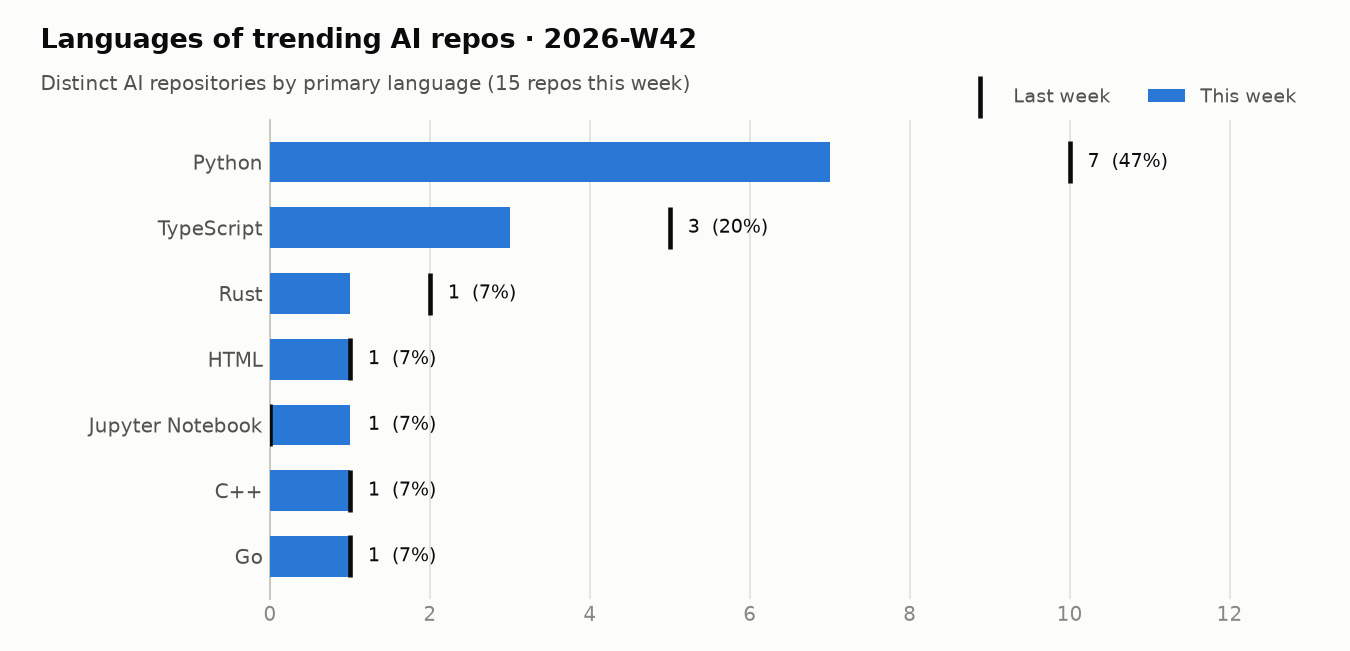
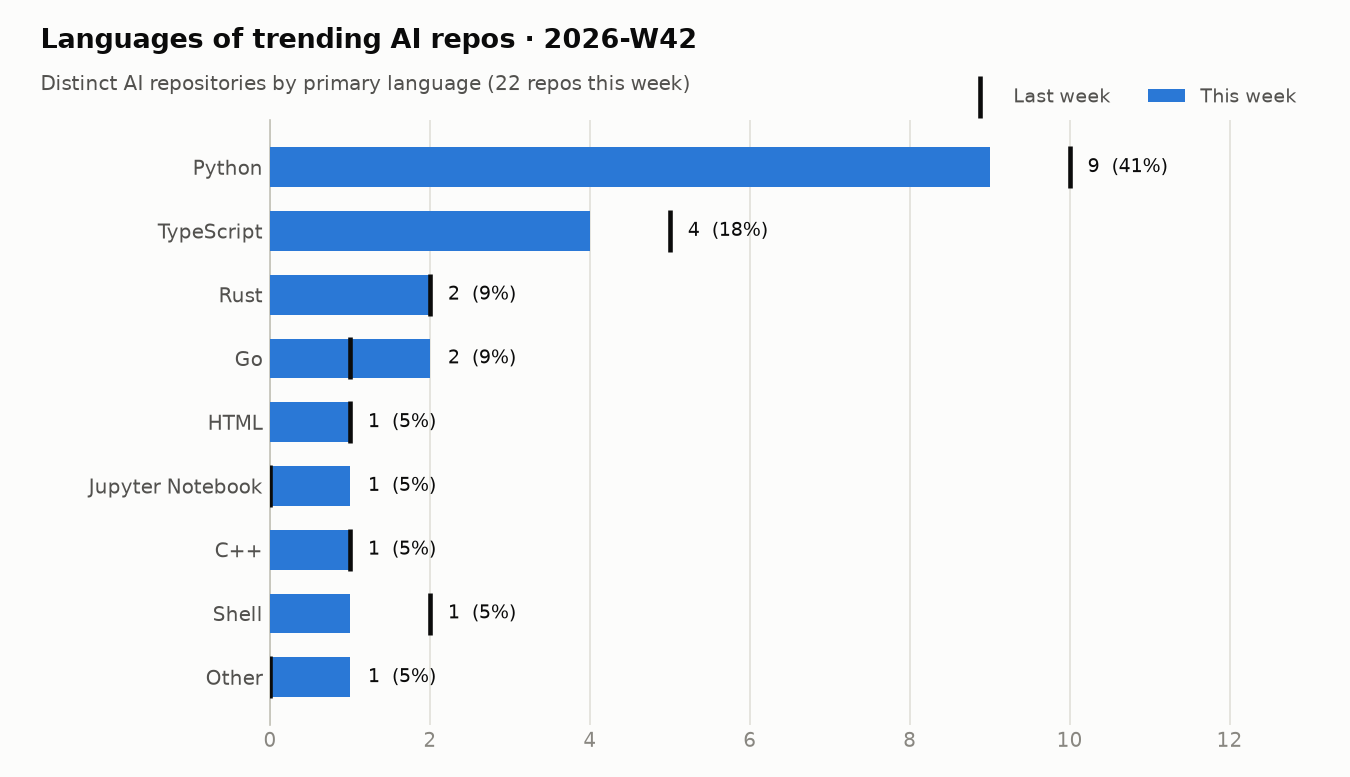
trending: snapshot 2026-10-16

diff --git a/README.md b/README.md
@@ -7,28 +7,33 @@ Every morning a GitHub Actions workflow reads the GitHub trending page, looks up
 ## Live view
 
 <!-- TRACKER_START -->
-### 🔥 AI repos trending today · 2026-10-15
+### 🔥 AI repos trending today · 2026-10-16
 
-7 of 12 trending repositories are AI-related.
+11 of 13 trending repositories are AI-related.
 
 | # | Repo | Language | ⭐ today | ⭐ total | Topics |
 |--:|---|---|--:|--:|---|
-| 1 | [morluto/rea](https://github.com/morluto/rea)<br><sub>Star morluto / rea Reverse engineer anything with agents, from app behavior down to native…</sub> | TypeScript | 41,034 | 251,853 | `agent-skills` `ai-agents` `binary-analysis` `claude-code` |
-| 2 | [debpalash/VoiceStudio](https://github.com/debpalash/VoiceStudio)<br><sub>Star debpalash / VoiceStudio VoiceStudio is the open-source, fully-local ElevenLabs altern…</sub> | Python | 3,538 | 67,236 | `ai` `audiobook` `cuda` `dubbing` |
-| 3 | [mksglu/context-mode](https://github.com/mksglu/context-mode)<br><sub>Sponsor Star mksglu / context-mode Context window optimization for AI coding agents. Sandb…</sub> | TypeScript | 947 | 29,380 | `antigravity` `claude` `claude-code` `claude-code-hooks` |
-| 5 | [K-Dense-AI/scientific-agent-skills](https://github.com/K-Dense-AI/scientific-agent-skills)<br><sub>Star K-Dense-AI / scientific-agent-skills Turn any AI agent into an AI Scientist. The #1 A…</sub> | Python | 163 | 49,676 | `agent-skills` `ai-scientist` `bioinformatics` `chemoinformatics` |
-| 6 | [HKUDS/CLI-Anything](https://github.com/HKUDS/CLI-Anything)<br><sub>Star HKUDS / CLI-Anything "CLI-Anything: Making ALL Software Agent-Native" -- CLI-Hub: htt…</sub> | Python | 103 | 52,755 | – |
-| 7 | [ifixai-ai/iFixAi](https://github.com/ifixai-ai/iFixAi)<br><sub>Star ifixai-ai / iFixAi Independent Auditing of AI Agents. Run by human or the agent itsel…</sub> | Python | 2,109 | 27,864 | `agent-evaluation` `ai` `ai-alignment` `ai-evaluation` |
-| 8 | [vxcontrol/pentagi](https://github.com/vxcontrol/pentagi)<br><sub>Star vxcontrol / pentagi Fully autonomous AI Agents system capable of performing complex p…</sub> | Go | 1,025 | 29,961 | `ai-agents` `ai-security-tool` `anthropic` `autonomous-agents` |
+| 1 | [morluto/rea](https://github.com/morluto/rea)<br><sub>Star morluto / rea Reverse engineer anything with agents, from app behavior down to native…</sub> | TypeScript | 32,314 | 277,586 | `agent-skills` `ai-agents` `binary-analysis` `claude-code` |
+| 2 | [anthropics/claude-plugins-official](https://github.com/anthropics/claude-plugins-official)<br><sub>Star anthropics / claude-plugins-official Official, Anthropic-managed directory of high qu…</sub> | Python | 307 | 39,471 | `claude-code` `mcp` `skills` |
+| 3 | [K-Dense-AI/scientific-agent-skills](https://github.com/K-Dense-AI/scientific-agent-skills)<br><sub>Star K-Dense-AI / scientific-agent-skills Turn any AI agent into an AI Scientist. The #1 A…</sub> | Python | 1,091 | 50,807 | `agent-skills` `ai-scientist` `bioinformatics` `chemoinformatics` |
+| 4 | [JuliusBrussee/caveman](https://github.com/JuliusBrussee/caveman)<br><sub>Sponsor Star JuliusBrussee / caveman 🪨 why use many token when few token do trick. Viral s…</sub> | Go | 433 | 112,799 | `ai` `anthropic` `caveman` `claude` |
+| 5 | [debpalash/VoiceStudio](https://github.com/debpalash/VoiceStudio)<br><sub>Sponsor Star debpalash / VoiceStudio VoiceStudio is the open-source, fully-local ElevenLab…</sub> | Python | 3,024 | 69,646 | `ai` `audiobook` `cuda` `dubbing` |
+| 6 | [obra/superpowers](https://github.com/obra/superpowers)<br><sub>Sponsor Star obra / superpowers An agentic skills framework & software development methodo…</sub> | Shell | 582 | 300,161 | `ai` `brainstorming` `coding` `obra` |
+| 7 | [ruvnet/ruflo](https://github.com/ruvnet/ruflo)<br><sub>Star ruvnet / ruflo 🌊 The original agent harness. Deploy intelligent multi-player swarms, …</sub> | TypeScript | 147 | 75,291 | `agentic-ai` `agentic-framework` `agentic-workflow` `agents` |
+| 8 | [mksglu/context-mode](https://github.com/mksglu/context-mode)<br><sub>Sponsor Star mksglu / context-mode Context window optimization for AI coding agents. Sandb…</sub> | TypeScript | 904 | 29,908 | `antigravity` `claude` `claude-code` `claude-code-hooks` |
+| 10 | [affaan-m/ECC](https://github.com/affaan-m/ECC)<br><sub>Sponsor Star affaan-m / ECC The agent harness performance optimization system. Skills, ins…</sub> | JavaScript | 1,013 | 280,642 | `ai-agents` `anthropic` `claude` `claude-code` |
+| 11 | [lightseekorg/tokenspeed](https://github.com/lightseekorg/tokenspeed)<br><sub>Sponsor Star lightseekorg / tokenspeed TokenSpeed is a speed-of-light LLM inference engine…</sub> | Python | 30 | 2,574 | `b200` `b300` `blackwell` `deepseek` |
+| 12 | [xerj-org/xerj](https://github.com/xerj-org/xerj)<br><sub>Star xerj-org / xerj XERJ is the new way for AI to search data. Its autoindex capability a…</sub> | Rust | 715 | 5,983 | `ai-search` `ai-search-algorithms` `ai-search-engine` `ai-search-free` |
 
 ### 📊 This week so far · 2026-W42
 
 #### Summary
 
-- **15** distinct AI repos trended over 4 day(s) (last week: 34)
-- AI share of all trending slots: **71%** (-4 pts vs last week)
-- Dominant language: **Python** (47% of AI repos)
-- Rising topics: `self-hosted` (+1)
+- **22** distinct AI repos trended over 5 day(s) (last week: 34)
+- AI share of all trending slots: **75%** (-0 pts vs last week)
+- Dominant language: **Python** (41% of AI repos)
+- Rising topics: `autonomous-agents` (+2), `skills` (+2), `dsh-plugin` (+1), `mcp` (+1), `mcp-server` (+1)
+- New this week: `autonomous-agents`
 
 #### Languages
 
@@ -36,13 +41,15 @@ Every morning a GitHub Actions workflow reads the GitHub trending page, looks up
 
 | Language | Repos | Share | Last week |
 |---|--:|--:|--:|
-| Python | 7 | 47% | 10 |
-| TypeScript | 3 | 20% | 5 |
-| Rust | 1 | 7% | 2 |
-| HTML | 1 | 7% | 1 |
-| Jupyter Notebook | 1 | 7% | 0 |
-| C++ | 1 | 7% | 1 |
-| Go | 1 | 7% | 1 |
+| Python | 9 | 41% | 10 |
+| TypeScript | 4 | 18% | 5 |
+| Rust | 2 | 9% | 2 |
+| Go | 2 | 9% | 1 |
+| HTML | 1 | 5% | 1 |
+| Jupyter Notebook | 1 | 5% | 0 |
+| C++ | 1 | 5% | 1 |
+| Shell | 1 | 5% | 2 |
+| JavaScript | 1 | 5% | 7 |
 
 #### Topics
 
@@ -50,37 +57,37 @@ Every morning a GitHub Actions workflow reads the GitHub trending page, looks up
 
 | Topic | Repos this week |
 |---|--:|
-| `mcp` | 3 |
+| `claude-code` | 6 |
+| `mcp` | 5 |
+| `claude` | 5 |
+| `codex` | 4 |
+| `ai-agents` | 4 |
+| `skills` | 4 |
 | `agent-skills` | 3 |
-| `codex` | 3 |
-| `claude-code` | 3 |
-| `ai-agents` | 2 |
+| `anthropic` | 3 |
+| `dsh-plugin` | 2 |
+| `developer-tools` | 2 |
 | `cli` | 2 |
-| `claude` | 2 |
-| `openai` | 2 |
-| `self-hosted` | 2 |
-| `dsh-plugin` | 1 |
-| `cordis` | 1 |
-| `decompiler` | 1 |
+| `mcp-server` | 2 |
 
 #### Most persistent AI repos
 
 | Repo | Language | Days trending | Stars gained | Total stars |
 |---|---|--:|--:|--:|
-| [morluto/rea](https://github.com/morluto/rea) | TypeScript | 4 | 166,639 | 251,853 |
+| [morluto/rea](https://github.com/morluto/rea) | TypeScript | 5 | 198,953 | 277,586 |
+| [mksglu/context-mode](https://github.com/mksglu/context-mode) | TypeScript | 4 | 3,066 | 29,908 |
 | [storytold/artcraft](https://github.com/storytold/artcraft) | Rust | 3 | 11,133 | 26,521 |
+| [debpalash/VoiceStudio](https://github.com/debpalash/VoiceStudio) | Python | 3 | 8,310 | 69,646 |
 | [cathrynlavery/diagram-design](https://github.com/cathrynlavery/diagram-design) | HTML | 3 | 4,979 | 54,665 |
 | [lyogavin/airllm](https://github.com/lyogavin/airllm) | Jupyter Notebook | 3 | 2,428 | 38,499 |
-| [mksglu/context-mode](https://github.com/mksglu/context-mode) | TypeScript | 3 | 2,162 | 29,380 |
-| [debpalash/VoiceStudio](https://github.com/debpalash/VoiceStudio) | Python | 2 | 5,286 | 67,236 |
+| [K-Dense-AI/scientific-agent-skills](https://github.com/K-Dense-AI/scientific-agent-skills) | Python | 2 | 1,254 | 50,807 |
 | [ifixai-ai/iFixAi](https://github.com/ifixai-ai/iFixAi) | Python | 1 | 2,109 | 27,864 |
 | [vxcontrol/pentagi](https://github.com/vxcontrol/pentagi) | Go | 1 | 1,025 | 29,961 |
-| [Alishahryar1/free-claude-code](https://github.com/Alishahryar1/free-claude-code) | Python | 1 | 626 | 59,682 |
-| [pytorch/pytorch](https://github.com/pytorch/pytorch) | Python | 1 | 315 | 104,680 |
+| [affaan-m/ECC](https://github.com/affaan-m/ECC) | JavaScript | 1 | 1,013 | 280,642 |
 
 ➡ Last full weekly analysis: [2026-W41](reports/weekly/2026-W41.md) · [all reports](reports/weekly)
 
-_Tracking since 2026-10-01 · 15 day(s) of data · [raw data](data/trending.csv)_
+_Tracking since 2026-10-01 · 16 day(s) of data · [raw data](data/trending.csv)_
 <!-- TRACKER_END -->
 
 ## How it works
